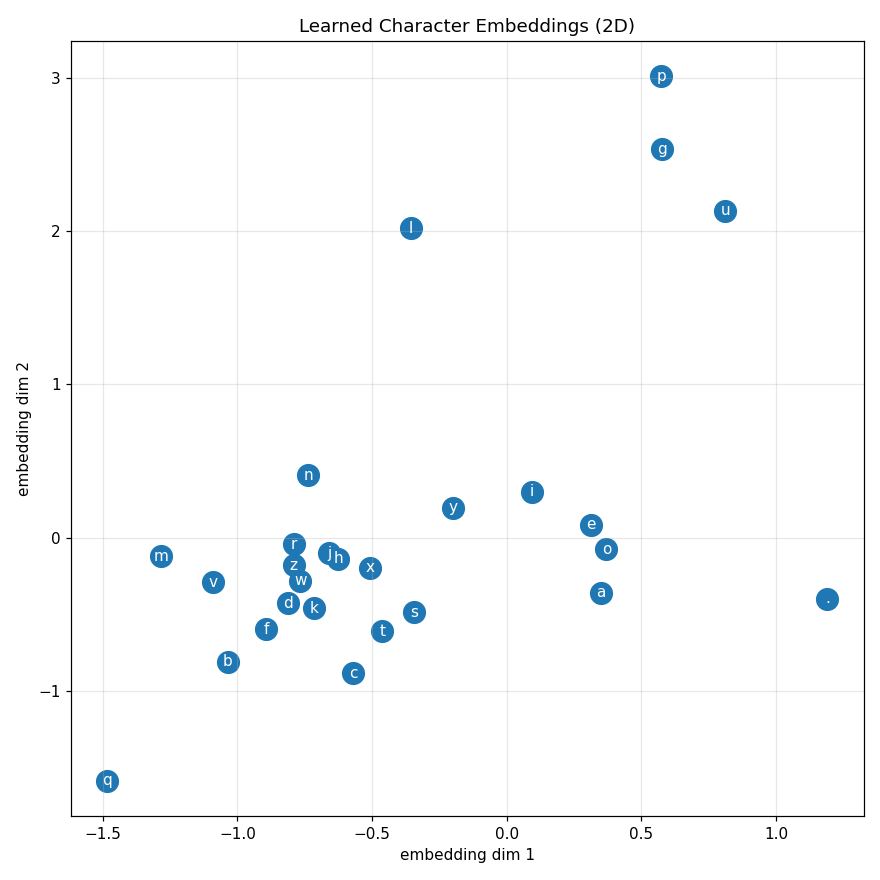
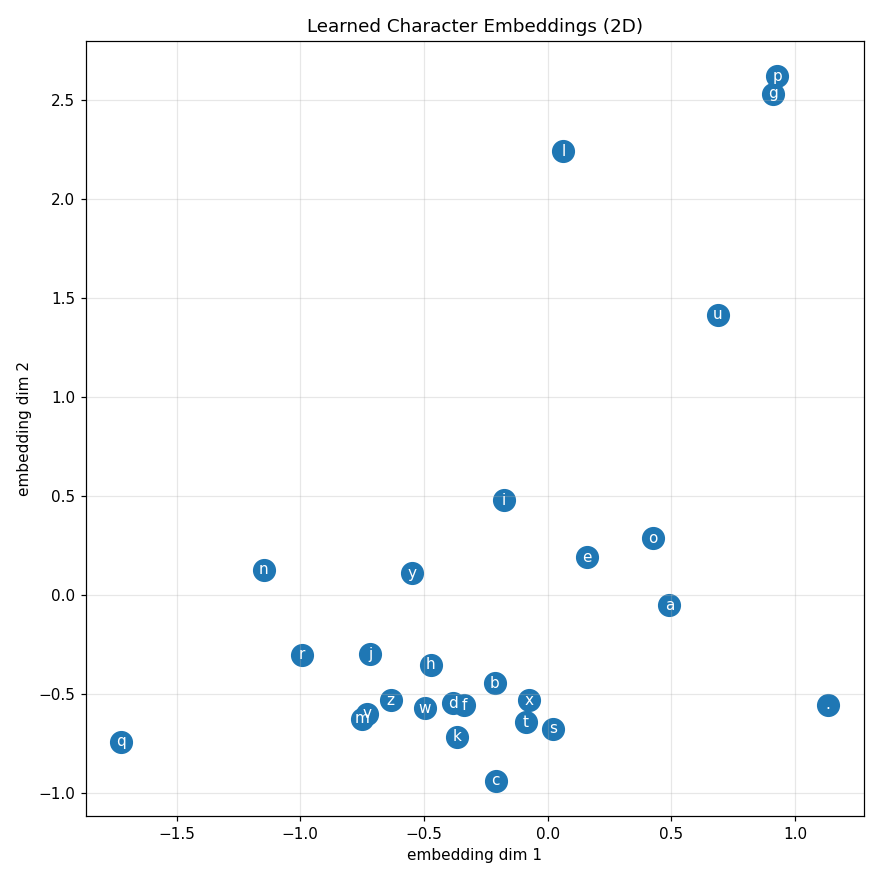
improve the mlp_language_model script

diff --git a/models/02_mlp_language_model.py b/models/02_mlp_language_model.py
@@ -1,8 +1,7 @@
-# ==============================================================
-# 02 -- MLP CHARACTER-LEVEL LANGUAGE MODEL
+# 02 MLP CHARACTER-LEVEL LANGUAGE MODEL
 # After Bengio et al. 2003 "A Neural Probabilistic Language Model"
-# ==============================================================
-#
+
+
 # Trains a 3-character-context MLP on names.txt and produces:
 #   outputs/plots/02_lr_search.png
 #   outputs/plots/02_embedding_scatter.png
@@ -11,7 +10,7 @@
 #
 # Run from repo root:
 #   python models/02_mlp_language_model.py
-# ==============================================================
+
 
 import random
 import datetime
@@ -22,10 +21,10 @@ import matplotlib
 matplotlib.use('Agg')
 import matplotlib.pyplot as plt
 
-# ---- Hyperparameters ----
+# ------ Hyperparameters ----------
 
-block_size      = 3        # context length: predict next char from 3 preceding
-emb_dim_2d      = 2        # embedding dim for LR search + scatter (plotted directly)
+block_size      = 3        # context length predict next char from 3 preceding
+emb_dim_2d      = 2        # embedding dim for LR search + scatter plotted directly
 n_hidden_2d     = 100      # hidden units for the intermediate 2D model
 emb_dim         = 10       # embedding dim for the final model
 n_hidden        = 200      # hidden units for the final model
@@ -38,7 +37,7 @@ lr_decay_at_mid = 100_000
 lr_decay_at     = 100_000
 INIT_SEED       = 2147483647   # fixed seed for all parameter initializations
 
-# ---- Data loading ----
+# ---- Data loading ------------
 
 with open("../language-models-from-scratch/data/names.txt", "r", encoding="utf-8") as file:
     words = file.read().splitlines()
@@ -50,10 +49,10 @@ vocab_size = len(stoi)   # 27: 26 letters + '.' as 0
 
 print(f'Words: {len(words)}  Vocabulary: {vocab_size} symbols')
 
-# ---- Dataset builder ----
+# ---- Dataset builder ------------
 
 def build_dataset(word_list):
-    """Build (context, target) pairs using a sliding window of block_size."""
+    """Build (context, target) pairs using a sliding window of block_size"""
     X, Y = [], []
     for w in word_list:
         context = [0] * block_size
@@ -65,7 +64,7 @@ def build_dataset(word_list):
             context = context[1:] + [ix]
     return torch.tensor(X), torch.tensor(Y)
 
-# 80/10/10 split -- random.seed(42) fixes the shuffle for reproducibility
+# 80/10/10 split random.seed(42) fixes the shuffle for reproducibility
 random.seed(42)
 random.shuffle(words)
 n1 = int(0.8 * len(words))
@@ -75,7 +74,7 @@ Xdev, Ydev = build_dataset(words[n1:n2])
 Xte,  Yte  = build_dataset(words[n2:])
 print(f'Train: {Xtr.shape}  Dev: {Xdev.shape}  Test: {Xte.shape}')
 
-# ---- LR search (one-time calibration) ----
+# ---- LR search (one-time calibration) ------------
 # Run once on a short-lived model.  Read the chart, pick the rate (~0.1 from
 # the sweet spot near log10(lr) = -1), then discard this model state.
 # The LR search uses the intermediate architecture: C(27,2), hidden=100.
@@ -95,27 +94,27 @@ lri, lossi_lr = [], []
 for i in range(1000):
     ix  = torch.randint(0, Xtr.shape[0], (batch_size,))
     emb = C_lr[Xtr[ix]]
-    # view() reinterprets tensor shape via metadata -- zero copy, no allocation
+    # view() reinterprets tensor shape via metadata zero copy, no allocation
     h      = torch.tanh(emb.view(-1, block_size * emb_dim_2d) @ W1_lr + b1_lr)
     logits = h @ W2_lr + b2_lr
-    # F.cross_entropy works directly on logits -- numerically stable, no manual softmax
+    # F.cross_entropy works directly on logits numerically stable, no manual softmax
     loss   = F.cross_entropy(logits, Ytr[ix])
     for p in params_lr:
-        p.grad = None   # frees gradient tensor rather than filling with zeros
+        p.grad = None  
     loss.backward()
     for p in params_lr:
         p.data += -lrs[i].item() * p.grad
     lri.append(lrexp_vals[i].item())
     lossi_lr.append(loss.item())
 
-# Discard LR search model -- its state is not needed further
+# Discard LR search model its state is not needed further
 del params_lr, C_lr, W1_lr, b1_lr, W2_lr, b2_lr
 print('LR search done.')
 
-# ---- Intermediate model: train C(27,2) for embedding scatter ----
+# ---- Intermediate model train C(27,2) for embedding scatter ------------
 # Two-dimensional embeddings can be plotted directly.  The geometry the model
 # finds (vowels clustering, '.' isolated) emerges purely from which characters
-# co-occur across 32k names -- the model is never told about phonetics.
+# co-occur across 32k names the model is never told about phonetics.
 
 g_mid = torch.Generator().manual_seed(INIT_SEED)
 C2    = torch.randn((vocab_size, emb_dim_2d),               generator=g_mid, requires_grad=True)
@@ -141,7 +140,7 @@ for i in range(max_iters_mid):
 
 print('Intermediate 2D model trained.')
 
-# ---- Model initialization (final model) ----
+# ---- Model initialization (final model) ------------
 # C is the embedding table: shape (vocab_size, emb_dim).
 # C[ix] == one_hot(ix) @ C -- embedding lookup IS a linear layer accessed by
 # index instead of matmul, which is both faster and more memory efficient.
@@ -157,7 +156,7 @@ parameters = [C, W1, b1, W2, b2]
 n_params = sum(p.nelement() for p in parameters)
 print(f'Final model parameters: {n_params}')   # 11897
 
-# ---- Training ----
+# ------------ Training ------------
 
 stepi = []
 lossi = []
@@ -165,13 +164,13 @@ lossi = []
 for i in range(max_iters):
     ix  = torch.randint(0, Xtr.shape[0], (batch_size,))
     emb = C[Xtr[ix]]
-    # view() is free: (N, block_size, emb_dim) -> (N, block_size*emb_dim), no copy
+    # view() is free: (N, block_size, emb_dim) => (N, block_size*emb_dim), no copy
     h      = torch.tanh(emb.view(-1, block_size * emb_dim) @ W1 + b1)
     logits = h @ W2 + b2
     loss   = F.cross_entropy(logits, Ytr[ix])
 
     for p in parameters:
-        p.grad = None   # None frees the gradient tensor -- faster than zeroing
+        p.grad = None   # None frees the gradient tensor faster than zeroing
     loss.backward()
 
     # Two-phase LR: explicit if-branch matching the notebook exactly
@@ -187,7 +186,7 @@ for i in range(max_iters):
 
 print('Training complete.')
 
-# ---- Evaluation ----
+# ------------ Evaluation ------------
 # Full-split NLL: one forward pass over each entire split with no gradients.
 # The mini-batch loss during training is noisy; these numbers are the honest ones.
 
@@ -203,7 +202,7 @@ dev_nll   = evaluate(Xdev, Ydev)
 test_nll  = evaluate(Xte,  Yte)
 print(f'\nFull-split NLL:  train {train_nll:.4f}  |  dev {dev_nll:.4f}  |  test {test_nll:.4f}')
 
-# ---- Generate names ----
+# ------------ Generate names ------------
 
 g_gen = torch.Generator().manual_seed(INIT_SEED)
 names = []
@@ -224,7 +223,7 @@ for _ in range(20):
     # strip trailing '.' token before recording
     names.append(''.join(itos[k] for k in out[:-1]))
 
-# ---- Save outputs ----
+# ------------ Save outputs ------------
 
 pathlib.Path('outputs/plots').mkdir(parents=True, exist_ok=True)
 pathlib.Path('outputs/generated_names').mkdir(parents=True, exist_ok=True)
